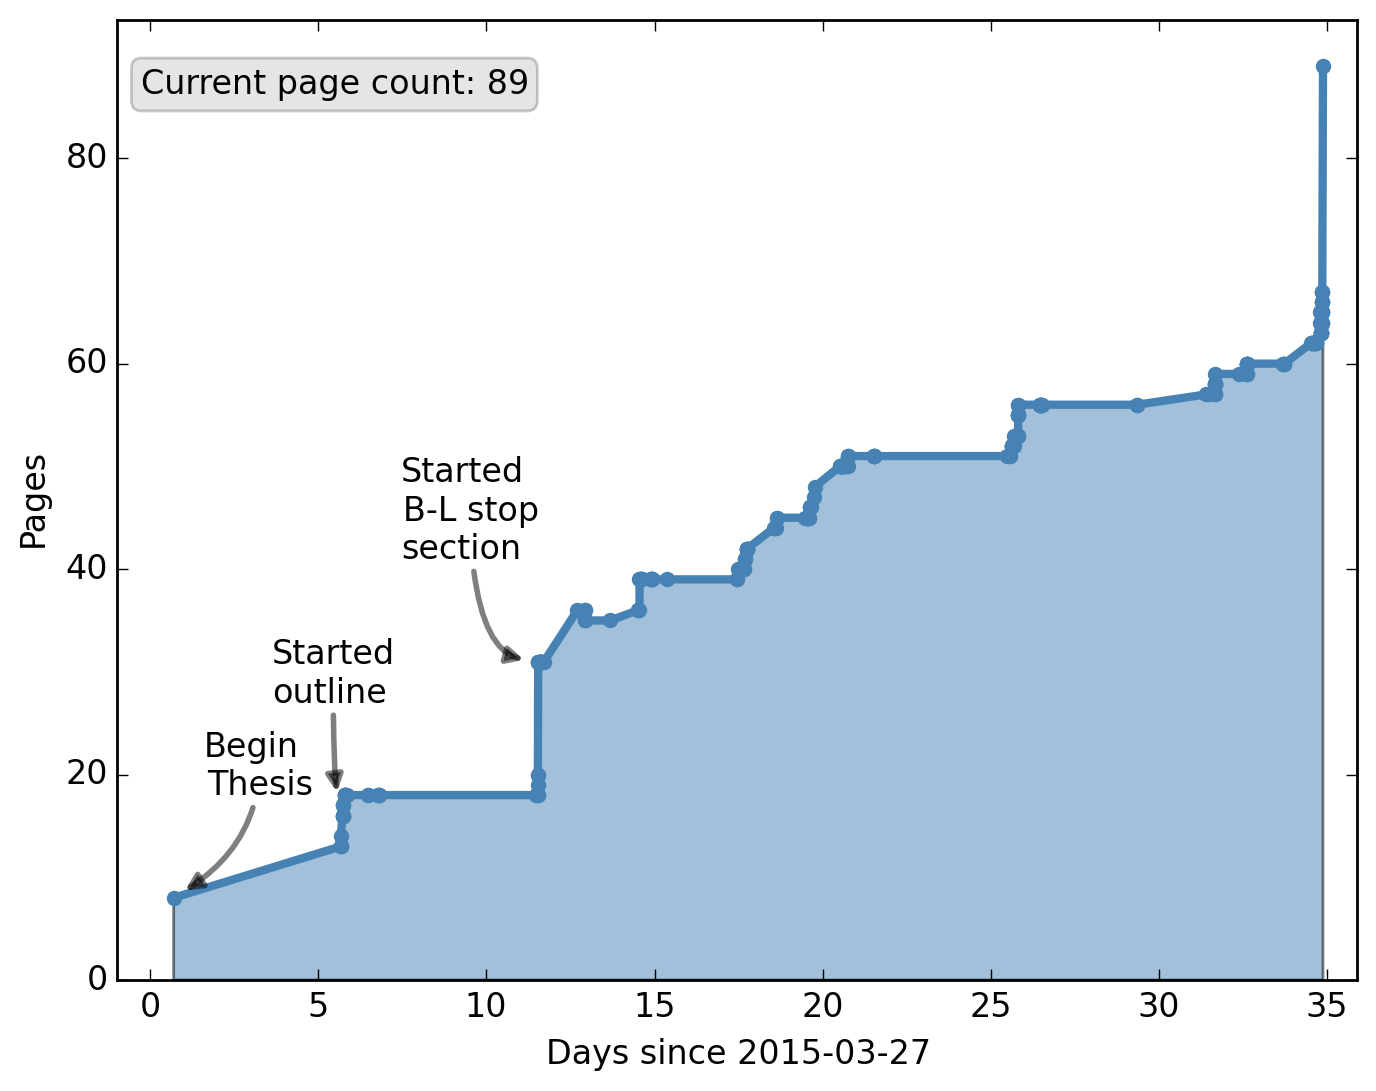
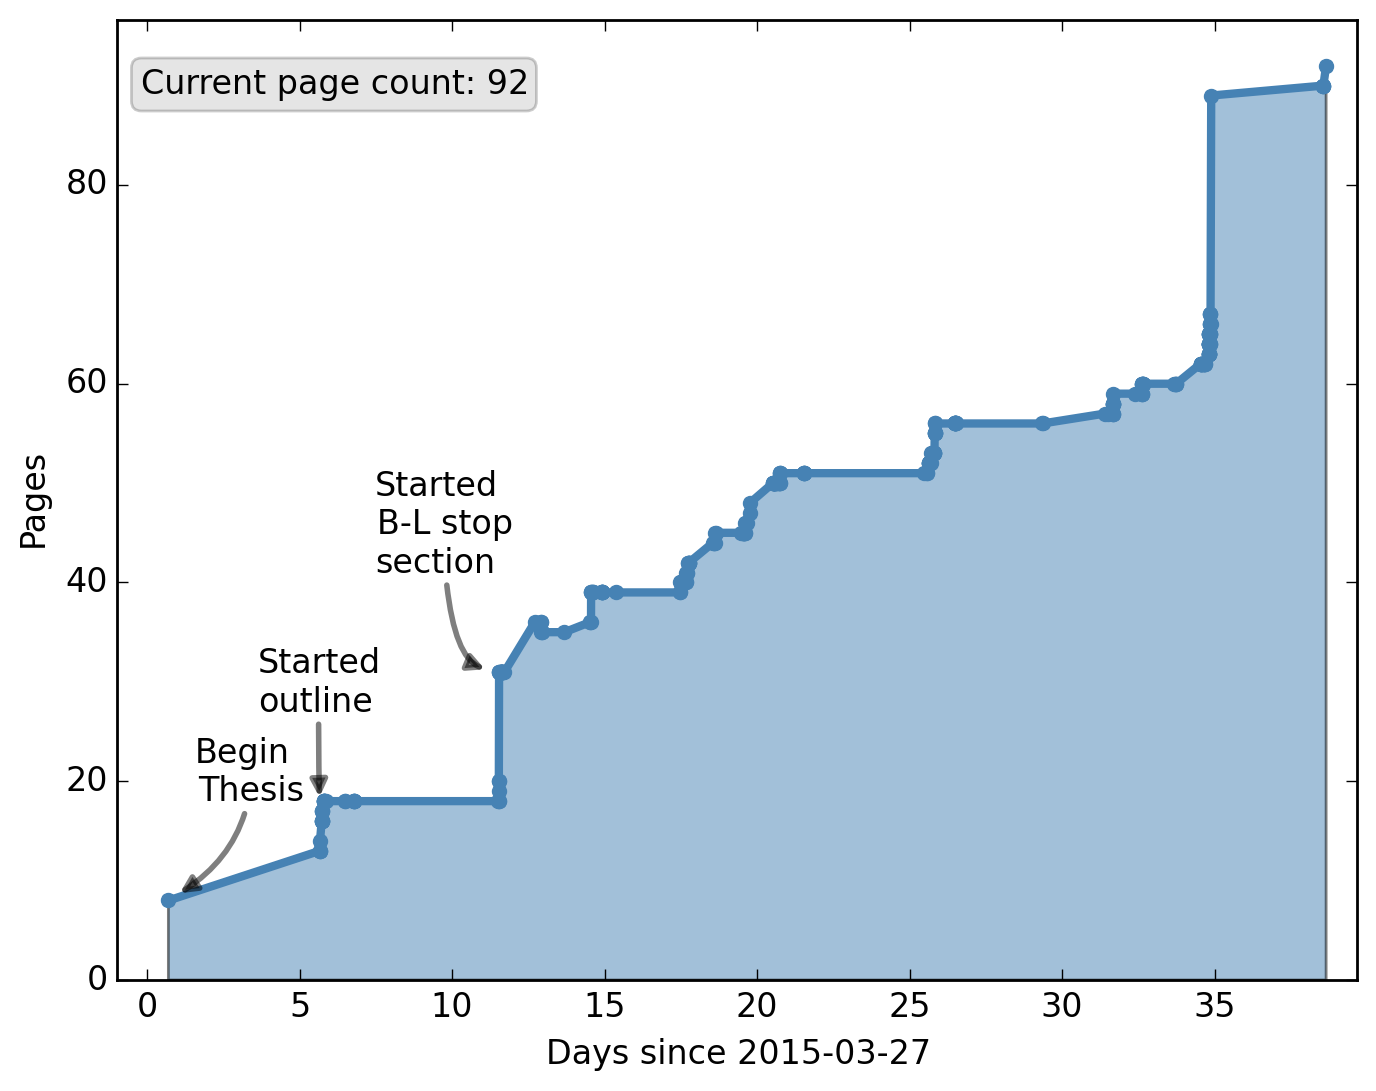
up analysis chapter

diff --git a/tex/blstop.tex b/tex/blstop.tex
@@ -3,16 +3,41 @@
 \chapter[B-L stop search][B-L stop search]{B-L stop search}
 \label{ch:bl_stop}
 
-{\color{red}A lot of this chapter is just going to be lifted from the CONF note
-  and then expanded upon. The section headings are mostly the same}
-
 {\color{red} TODO add brief overview to the beginning of the chapter}
-{\color{red} TODO the weights and scale factors have not been described yet!!!}
-% lepton SF - 
+
+% MC event weight - done
+% pile up weight - done
+% lumi*cross section weight - done
+% lepton SF - done
 % trigger SF - done
-% MC event weight
 % b tag SF - done
-% lumi*cross section weight
+% Z k factor - done
+% ttbar pt reweght - done
+
+% Cuts
+% BMINUSL_CUT_GRL                    - done
+% BMINUSL_CUT_INCOMPLETE_EVENT       - done
+% BMINUSL_CUT_LAR_ERROR              - done
+% BMINUSL_CUT_TILE_ERROR             - done
+% BMINUSL_CUT_TILE_HOT_SPOT          - done
+% BMINUSL_CUT_TILE_TRIP              - done
+% BMINUSL_CUT_BAD_JET_VETO           - done
+% BMINUSL_CUT_CALO_PROBLEM_JET       - done
+% BMINUSL_CUT_PRIMARY_VERTEX         - done
+% BMINUSL_CUT_BAD_MUON               - done
+% BMINUSL_CUT_COSMIC_MUON_VETO       - done
+% BMINUSL_CUT_HFOR                   - done
+% BMINUSL_CUT_MC_OVERLAP             - done
+% BMINUSL_CUT_GE_2_BASELINE_LEPTONS  - done
+% BMINUSL_CUT_GE_2_SIGNAL_LEPTON     - done
+% BMINUSL_CUT_OS_LEP                 - done
+% BMINUSL_CUT_TRIGGER                - done
+% BMINUSL_CUT_PHASE                  - done
+% BMINUSL_CUT_TRIGGER_MATCH          - done
+% BMINUSL_CUT_GE_2_B_JET             - done
+% BMINUSL_CUT_BL_PAIRING             - done
+% BMINUSL_CUT_ZVETO                  - done
+
 
 \begin{figure}[ht]
   \centering
@@ -23,6 +48,69 @@
   \label{fig:blstop_diagram}
 \end{figure}
 
+%% -----------------------------------------------------------------------------
+\section{Signal model simulation}
+\label{sec:signal_model_mc}
+
+This search is optimized using Monte Carlo (MC) simulation of stop pair
+production and decay.
+Stop pair production is modeled using \madgraph\ version
+1.5.12~\cite{Alwall:2011uj} to generate stop-anti-stop pairs using the
+CTEQ 6L1 parton distribution functions (PDFs)~\cite{Nadolsky:2008zw},
+and \pythia version 6.427~\cite{Sjostrand:2006za} to perform the
+RPV stop decay as well as the parton shower calculation.
+Stop pairs are generated for stop masses between 400~\GeV\ and 1100~\GeV\ in
+steps of 100~\GeV.
+Signal cross sections are calculated at next-to-leading order (NLO) in
+$\alpha_s$, including the resummation of soft gluon emission at
+next-to-leading-logarithm accuracy
+(NLO+NLL)~\cite{Beenakker:1997ut,Beenakker:2010nq,Beenakker:2011fu}.
+The nominal cross section and the uncertainty are taken from an envelope of
+cross section predictions using different PDF sets and factorization and
+renormalization scales, as described in Ref.~\cite{Kramer:2012bx}.
+The simulated stop cross section ranges from $356 \pm 51$~fb for a stop mass
+of 400~\GeV\ to $0.18 \pm 0.06$~fb for a stop mass of 1100~\GeV.
+The cross sections and associated uncertainties for stop pair production are
+summarized in Table~\ref{tab:stop_xsec}.
+
+The simulated stop branching ratios in the MC simplified models is set to 
+$Br(\tilde{t} \rightarrow be) = Br(\tilde{t} \rightarrow b\mu) = 0.5$.
+The simulated events can be appropriately weighted to give any branching fraction
+hypothesis.
+Signal contributions from $\tilde{t} \rightarrow b\tau$ decays were shown not
+to significantly contribute to the final state with two light leptons and two
+$b$-jets.
+This is due partially to the low branching ratio of leptonic tau decays (35\%
+for each tau lepton), as well as the addition of a neutrino to the final state.
+Because the decay $\tilde{t} \rightarrow b\tau$ does not significantly
+contribute to the search sensitivity, is not included in the simulated
+simplified model.
+
+\begin{table}[ht]
+  \caption{Stop cross sections and their associated
+    uncertainties.~\cite{Beenakker:1997ut,Beenakker:2010nq,Beenakker:2011fu}.
+    {\color{red} TODO convert from percent to pb.}
+  }
+  \label{tab:stop_xsec}
+  \centering{
+    \begin{tabular}{cc}
+      Stop Mass [\GeV] & Cross section [pb] \\
+      \midrule
+      % 100              & $559.8               \pm 16$\% \\
+      % 200              & $18.5                \pm 15$\% \\
+      % 300              & $2.0                 \pm 15$\% \\
+      400              & $0.4                 \pm 14$\% \\
+      500              & $8.6  \times 10^{-2} \pm 15$\% \\
+      600              & $2.5  \times 10^{-2} \pm 17$\% \\
+      700              & $8.1  \times 10^{-3} \pm 18$\% \\
+      800              & $2.9  \times 10^{-3} \pm 21$\%  \\
+      900              & $1.1  \times 10^{-3} \pm 24$\% \\
+      1000             & $4.4  \times 10^{-4} \pm 28$\% \\
+      1100             & $1.8  \times 10^{-4} \pm 32$\% \\
+      \bottomrule
+    \end{tabular}
+  }
+\end{table}
 %% -----------------------------------------------------------------------------
 \section{Object selection}
 \label{sec:object_selection}
@@ -402,6 +490,8 @@ An additional requirement is applied to MC simulation events to avoid double
 counting backgrounds with heavy flavor quarks in the final state, the heavy
 flavor overlap removal procedure, described in Section~\ref{sec:jet_matching},
 is applied.
+{\color{red} This reference might belong to the MC section rather than jet
+matching. TODO see what this ends up being.}
 
 Events in data are taken from both the \texttt{egamma} and \texttt{muons} data
 streams.
@@ -585,9 +675,9 @@ on the flavor channel as shown in Figure~\ref{fig:full_trigger_efficiency}.
   \label{fig:full_trigger_efficiency}
 \end{figure}
 
-The trigger requirement is applied in both data and Monte Carlo simulation.
+The trigger requirement is applied in both data and MC simulation.
 To account for the difference in trigger efficiency, a trigger scale factor is
-applied to the Monte Carlo events which passed the trigger requirement.
+applied to the MC events which passed the trigger requirement.
 The trigger efficiencies for data and MC simulation are provided by
 the Egamma and Muon combined performance groups.
 The trigger scale factor is the ratio of the efficiencies (data to MC
@@ -885,7 +975,7 @@ performing the simultaneous fit.
 \subsection{Monte Carlo simulation samples}
 \label{sec:mc_samples}
 
-Monte Carlo simulation samples are used to estimate the selection efficiency
+MC simulation samples are used to estimate the selection efficiency
 and kinematic distributions for SM processes.
 When constructing plots and tables, the \TTBAR, \ZGAMMAJETS, and single top
 production processes are kept separate, while all the other SM background
@@ -897,11 +987,10 @@ Frixione:2007nw} with NLO PDF set CTEQ 6L1~\cite{Nadolsky:2008zw}, and
 showered with \PYTHIA\ version 6.426,
 When using the baseline \POWHEG+\PYTHIA\ \TTBAR\ production sample,
 events are reweighted in bins of the transverse mass (\pt) of the
-$t\bar{t}$ system to match the top quark
-pair differential cross section observed in ATLAS
-data~\cite{Aad:2012hg,Aad:2014zka}.
-The $Wt$-channel and $s$-channel of the single top background are
-modeled using \POWHEG\ revision~1556~\cite{Alioli:2009je}
+$t\bar{t}$ system to match the top quark pair differential cross section
+observed in ATLAS data~\cite{Aad:2012hg,Aad:2014zka}.
+The $Wt$-channel and $s$-channel of the single top background are modeled using
+\POWHEG\ revision~1556~\cite{Alioli:2009je}
 with \PYTHIA\ version 6.426, while the $t$-channel is modeled using
 \acermc\ version 3.8~\cite{Kersevan:2004yg} with \PYTHIA\ version 6.426,
 both with PDF set CTEQ 6L1~\cite{Nadolsky:2008zw}.
@@ -919,6 +1008,54 @@ the production cross section, and $\epsilon_\mathrm{filter}$ is the efficiency
 of any filter which was applied to the MC sample.}
 Unless \pythia8 is specified, \pythia\ version 6 is used for samples labeled
 with \pythia.
+
+Various filters are applied to the The \ZGAMMAJETS\ samples to achieve
+reasonable coverage of final states and kinematics in the finite MC simulation
+samples.
+A dedicated set of samples are generated for each of the di-lepton flavor
+combinations from the $Z$~boson ($ee$, $\mu\mu$, and $\tau\tau$).
+Filters are also applied based on the quark content of the simulated event.
+Samples are generated with a filter requiring at least one $b$~quark in the
+event.
+These samples have the largest contribution to the final background estimate.
+Samples are also produced which require at least one $c$~quark, but veto events
+including a $b$~quark.
+The last set of samples is generated which vetoes events with either $b$~quark
+or $c$~quark content.
+The samples are further sliced by the \pt\ of the $Z$~boson.
+Dedicated samples with generator filters are produced in slices above 40~\GeV,
+and an inclusive sample is used to cover the kinematic space with
+$\pt^{Z} \leq 40~\GeV$.
+To avoid overlap between the inclusive sample and the higher $\pt^{Z}$ slices,
+An additional requirement of $\pt^{Z,\mathrm{truth}} \leq 40 \GeV$ for the
+inclusive \ZGAMMAJETS\ samples simulated used \sherpa.
+As \sherpa\ does not include the intermediate $Z$~boson in the truth record,
+the $\pt^{Z,\mathrm{truth}}$ quantity is obtained by searching through all the
+truth leptons in the event, and picking the two leptons with a parent ID
+consistent with a $Z$~boson, and calculating the \pt\ of the (truth level) 
+di-lepton pair.
+
+Similar filters to the \ZGAMMAJETS\ MC samples are applied to the Drell Yan (DY)
+samples.
+The DY samples apply the same filters on the lepton flavor combinations
+and the quark content.
+Rather than slicing based on the \pt\ of the $Z$~boson, the DY samples are
+sliced based on the mass of the off-shell $Z/\gamma^{*}$ in the event.
+Two sets of samples are produced with requirements of
+$8 \leq m_{Z/\gamma^{*}}^\mathrm{truth} \leq 15 \GeV$ and 
+$15 \leq m_{Z/\gamma^{*}}^\mathrm{truth} \leq 40 \GeV$ respectively, where
+$m_{Z/\gamma^{*}}$ is obtained by searching through the truth record for the
+decay products of the $Z/\gamma^{*}$, and computing the (truth level) invariant
+mass of the di-lepton pair.
+
+A weight is applied to the MC samples based on the number of simulated
+interaction per crossing to match the pile up distribution observed in the
+data collection.
+Additionally, several of the MC generators provide event weights, which are
+used to correct the kinematic distributions to better match those observed in
+data.
+When these MC event weights are provided by the generator, they are applied to
+each event in the MC background sample.
 
 \begin{table}[ht]
   \caption{Partial summary of background samples and their cross sections used
@@ -946,7 +1083,7 @@ with \pythia.
 \begin{table}[ht]
   \caption{Summary of the \ZGAMMAJETS\ background samples and their cross
     sections used in this analysis.
-    The \ZGAMMAJETS\ samples are sliced by the \pt\ of the $Z$ boson.
+    The \ZGAMMAJETS\ samples are sliced by the \pt\ of the $Z$~boson.
     For the inclusive sample, only events with $\pt^{Z} \le 40 \GeV$ were used.
     For each \pt\ slice, nine samples were generated, with different lepton
     flavor channels and filters applied on the jet flavor.

diff --git a/PageNumbers.md b/PageNumbers.md
@@ -280,3 +280,8 @@ Thu Apr 30 22:30:07 CEST 2015 , 67
 Thu Apr 30 22:30:39 CEST 2015 , 66
 Thu Apr 30 22:39:23 CEST 2015 , 66
 Thu Apr 30 23:11:52 CEST 2015 , 89
+Mon May 4 15:19:40 CEST 2015 , 90
+Mon May 4 15:19:51 CEST 2015 , 90
+Mon May 4 15:24:13 CEST 2015 , 90
+Mon May 4 15:26:30 CEST 2015 , 90
+Mon May 4 17:36:35 CEST 2015 , 92
